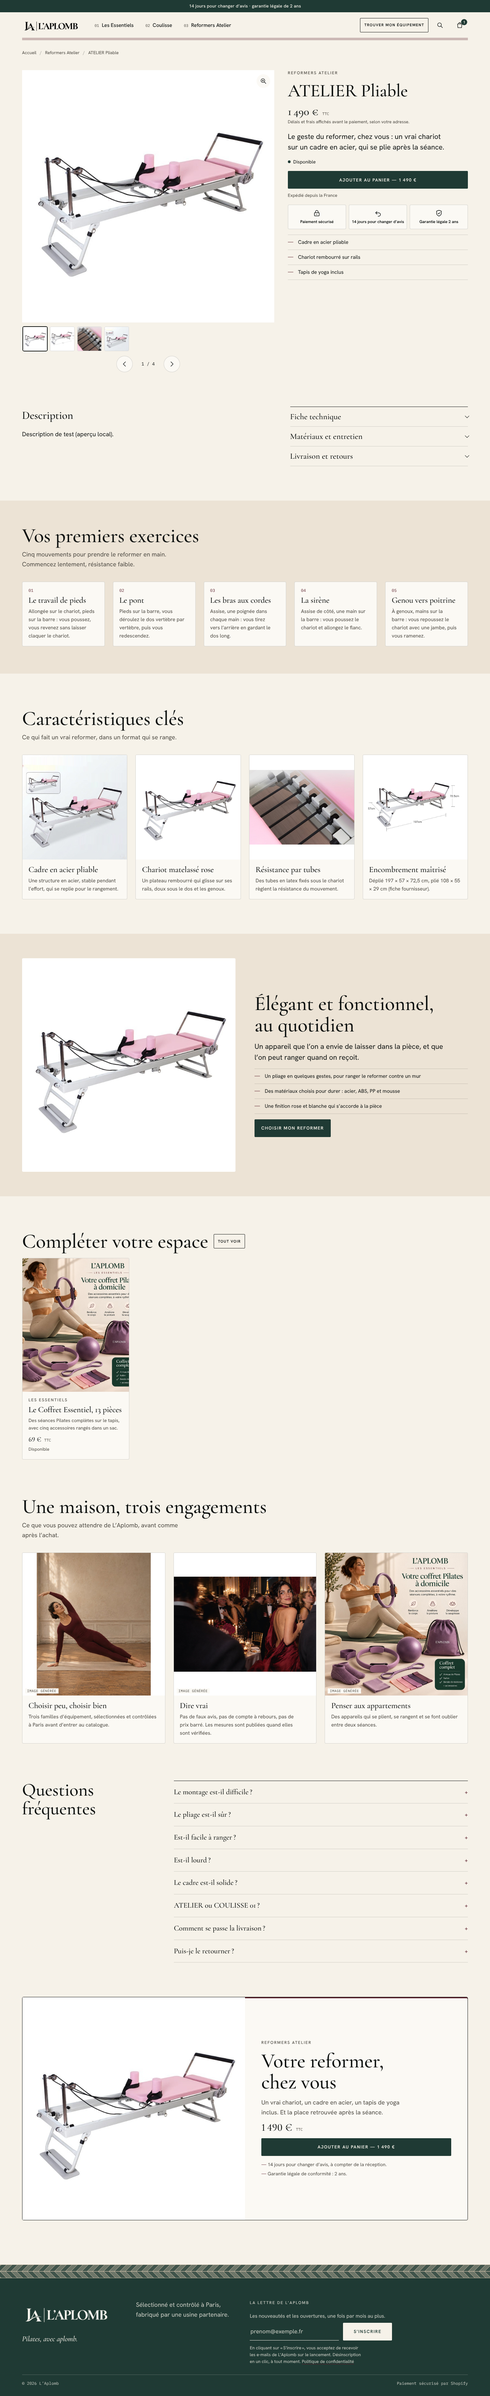
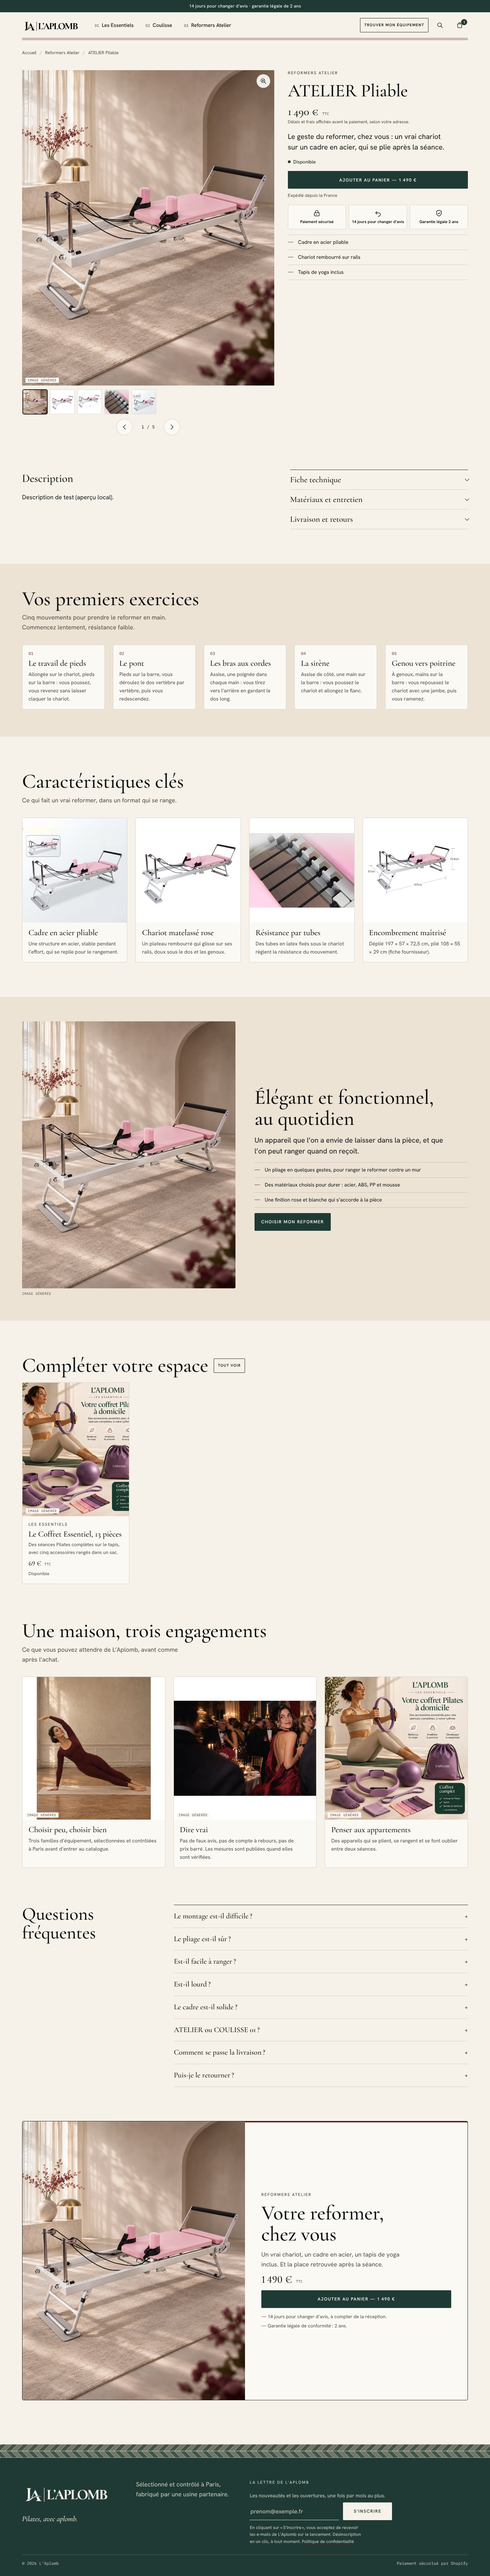
Visuel d'ambiance du reformer ATELIER Pliable
- Nouvelle image principale du produit (mention « image générée »),
  reprise sur la carte famille de l'accueil.
- Galerie : le cadre prend la forme de la première image (4:5 à 1:1) ;
  une image de même forme le remplit, les photos détourées restent entières.
- Image et texte : cadre à la forme de l'image, sans bandes blanches.
- Carte produit : mention « image générée » quand le texte alternatif l'indique.

Claude-Session: https://claude.ai/code/session_01JVxC767RbYfVA3orWDdFnz

diff --git a/assets/aplomb-components.css b/assets/aplomb-components.css
@@ -2780,6 +2780,14 @@ html.visionneuse-ouverte {
   height: 100%;
   object-fit: cover;
 }
+.carte-produit__credit {
+  position: absolute;
+  left: 10px;
+  bottom: 8px;
+  margin: 0;
+  background: var(--paper);
+  padding: 0 6px;
+}
 .carte-produit__attente {
   font: 400 0.75rem / 1 var(--mono);
   color: var(--ink-soft);
@@ -3326,6 +3334,7 @@ html.visionneuse-ouverte {
 /* Photos produit sur fond blanc : affichées entières (aucune cote coupée) */
 .carac__visuel,
 .image-texte__cadre {
+  aspect-ratio: var(--cadre-ratio, 1);
   background: #fff;
 }
 .carac__visuel img,
@@ -3391,18 +3400,21 @@ html.visionneuse-ouverte {
   .galerie-produit__media,
   .galerie-produit__media:first-child {
     flex: 0 0 100%;
-    aspect-ratio: 1;
+    aspect-ratio: var(--galerie-ratio, 1);
   }
   .galerie-produit__nav {
     display: flex;
   }
 }
 .galerie-produit__media {
-  aspect-ratio: 1;
+  aspect-ratio: var(--galerie-ratio, 1);
   background: #fff;
 }
 .galerie-produit__media img {
   object-fit: contain;
+}
+.galerie-produit__media--plein img {
+  object-fit: cover;
 }
 .galerie-produit__vignettes {
   list-style: none;

diff --git a/tools/apercu/serveur.js b/tools/apercu/serveur.js
@@ -89,6 +89,7 @@ const CATALOGUE = [
     aplomb: { accroche: 'Le geste du reformer, chez vous : un vrai chariot sur un cadre en acier, qui se plie après la séance.', dimensions_deplie: '197 × 57 × 72,5 cm (fiche fournisseur)', dimensions_plie: '108 × 55 × 29 cm (fiche fournisseur)', poids: '32,5 kg (fiche fournisseur)', materiaux: 'Cadre en acier, ABS, PP, mousse (fiche fournisseur)' },
     description: '<p>Description de test (aperçu local).</p>',
     media: [
+      ['atelier-pliable-0-ambiance.jpg', 1122, 1402, 'Reformer ATELIER Pliable dans un salon lumineux, image générée'],
       ['atelier-pliable-1.jpg', 800, 800, 'Reformer pliable ATELIER, vue de trois quarts'], ['atelier-pliable-2-dimensions.jpg', 800, 640, 'Encombrement du reformer déplié'],
       ['atelier-pliable-3-tubes.jpg', 800, 570, 'Tubes de résistance en latex'], ['atelier-pliable-4-vue.jpg', 1024, 1024, 'Reformer pliable ATELIER avec barre de pieds'],
     ].map(([n, w, h, a], i) => media(imageMedia(n, w, h, a), 20 + i)),

diff --git a/tools/build_templates.py b/tools/build_templates.py
@@ -215,7 +215,7 @@ def index():
                          "texte": "Une planche pliable à deux plateaux coulissants : le travail en glissé, dans peu de place."}),
             ("famille", {"famille": "atelier", "numero": "03", "nom": "Reformers Atelier",
                          "texte": "De vrais reformers à chariot, pour une pratique proche du studio, avec un espace dédié.",
-                         "image": img("atelier-pliable-1.jpg"), "image_generee": False}),
+                         "image": img("atelier-pliable-0-ambiance.jpg"), "image_generee": True}),
         ], "fa"),
         "vedette": section("aplomb-vedette", {
             "ancre": "coulisse",

diff --git a/design/medias/LISEZMOI.md b/design/medias/LISEZMOI.md
@@ -3,7 +3,8 @@
 | Fichier | Origine | Statut |
 |---|---|---|
 | `laplomb-logo.png`, `laplomb-monogramme.png` | Logo fourni (page xPage), fond transparent | Logo de marque |
-| `atelier-pliable-*.jpg` | Photos du fournisseur du reformer pliable (recadrées, textes retirés) | **Vérifier l’autorisation d’usage du fournisseur** |
+| `atelier-pliable-0-ambiance.jpg` | Visuel d’ambiance fourni le 9 novembre 2026 (reformer rose dans un salon), traité comme image générée | Mention « image générée » ; à retirer seulement s’il s’agit d’une vraie photo |
+| `atelier-pliable-1…4.jpg` | Photos du fournisseur du reformer pliable (recadrées, textes retirés) | **Vérifier l’autorisation d’usage du fournisseur** |
 | `coffret-*.jpg` | Visuels L’APLOMB fournis le 9 novembre 2026, générés par IA | Mention « image générée » dans le texte alternatif |
 
 Exclus volontairement des pages xPage : logos de presse (Marie Claire, Forbes, ELLE, Vogue…), visages d’avis
